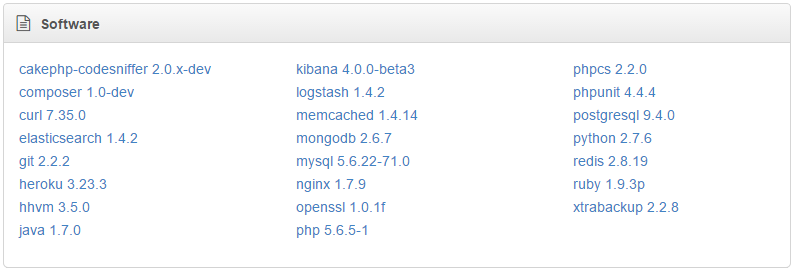
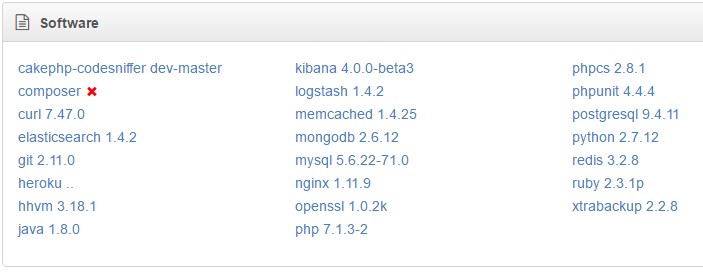
Update docs for 2.0-beta1

diff --git a/README.md b/README.md
@@ -5,7 +5,7 @@
 
 # Cakebox
 
-Multi-framework PHP development environment.
+Framework agnostic virtual PHP development environment.
 
 ## Requirements
 
@@ -27,8 +27,9 @@ Multi-framework PHP development environment.
 
 ## What do you get?
 
-A 64-bit virtual machine running [Ubuntu 14.04.1 LTS](https://wiki.ubuntu.com/LTS)
-with a lot of useful [software and features](http://cakebox.readthedocs.org/en/latest/features/).
+A 64-bit virtual machine running [Ubuntu 16.04 LTS](https://wiki.ubuntu.com/LTS)
+with a lot of useful [software and features](http://cakebox.readthedocs.org/en/latest/features/)
+like PHP 7.1.
 
 ## Installation
 
@@ -38,6 +39,14 @@ cd cakebox
 cp Cakebox.yaml.default Cakebox.yaml
 vagrant plugin install vagrant-vbguest
 vagrant up
+```
+
+Optionally upgrade your box to Ubuntu 16.04 by running:
+```
+vagrant ssh
+/cakebox/bash/ubuntu-16.sh
+exit
+vagrant reload
 ```
 
 > **Note:** the initial download of the (~2GB) box image could take some time

diff --git a/docs/sources/quickstart.md b/docs/sources/quickstart.md
@@ -1,6 +1,6 @@
-## Alpha
+## Beta
 
-We are currently in alpha so things may break. Help us improve by
+We are currently in beta so things may break. Help us improve by
 [reporting problems](https://github.com/alt3/cakebox/issues).
 
 ## Requirements
@@ -19,8 +19,8 @@ We are currently in alpha so things may break. Help us improve by
 
 ## What do you get?
 
-A 64-bit virtual machine running [Ubuntu 14.04.1 LTS](https://wiki.ubuntu.com/LTS)
-with a lot of useful [software and features](features/).
+A 64-bit virtual machine running [Ubuntu 16.04 LTS](https://wiki.ubuntu.com/LTS)
+with a lot of useful [software and features](features/) like PHP 7.1.
 
 ## Installation
 

diff --git a/docs/sources/features.md b/docs/sources/features.md
@@ -24,8 +24,8 @@ completeness only.
 
 ## Software
 
-Your box runs a 64-bit version of [Ubuntu 14.04.1 LTS](https://wiki.ubuntu.com/LTS)
-and comes with a bunch of useful software. Check the ``Virtual Machine`` section
+Your box runs a 64-bit version of [Ubuntu 16.04 LTS](https://wiki.ubuntu.com/LTS)
+and comes with a bunch of useful software like PHP 7.1. Check the ``Virtual Machine`` section
 of your Cakebox Dashboard for an actual list.
 
 ![Box Software](img/box-software.png)

diff --git a/docs/sources/index.md b/docs/sources/index.md
@@ -1,6 +1,6 @@
-# Cakebox 1.0-alpha3
+# Cakebox 2.0-beta1
 
-Multi-framework PHP development environment.
+Framework agnostic virtual PHP development environment.
 
 ## Get productive
 
